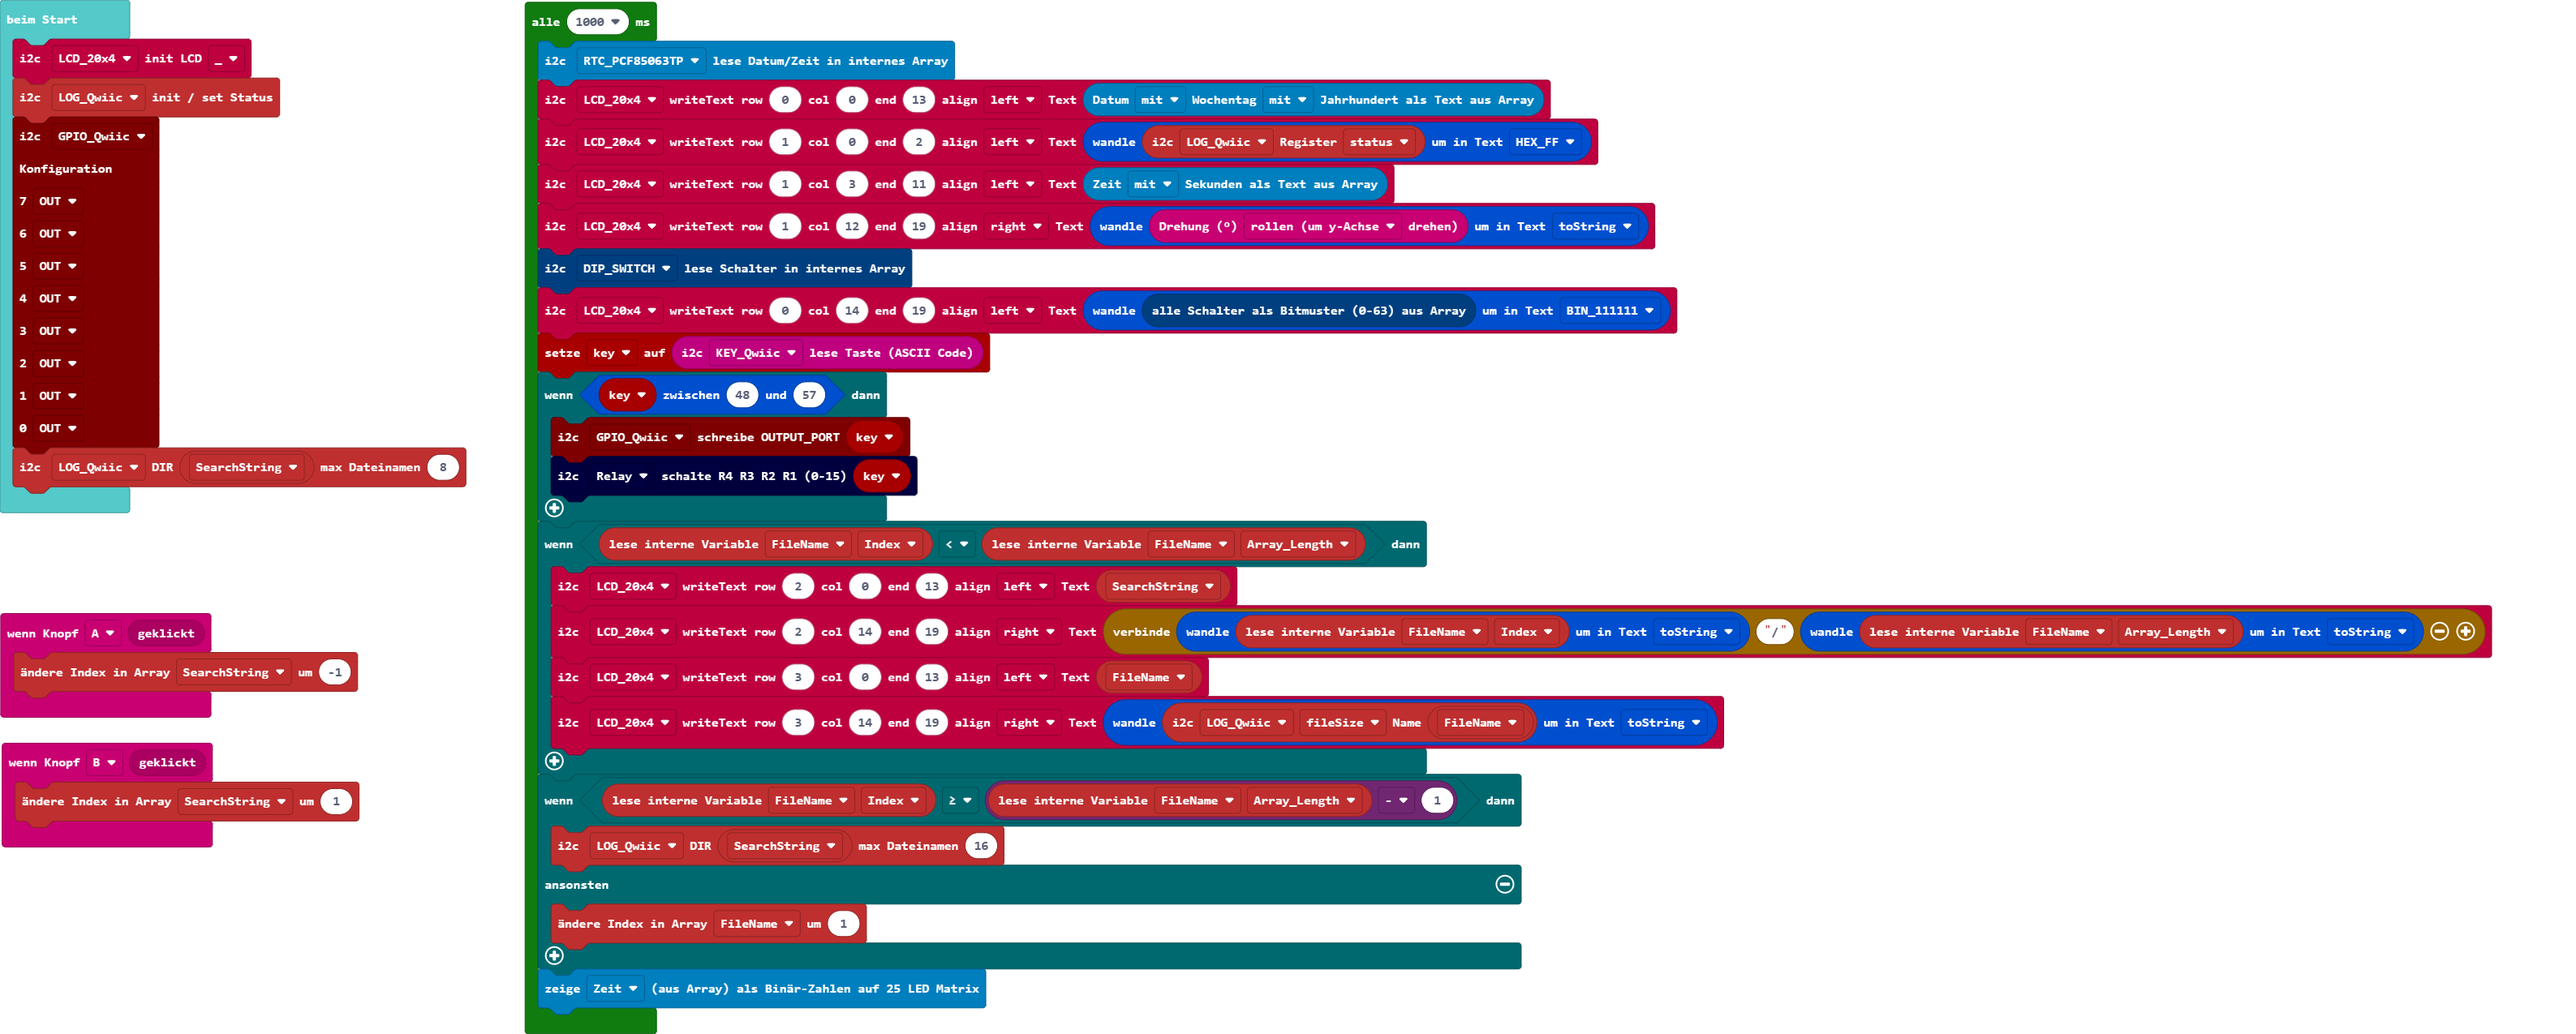
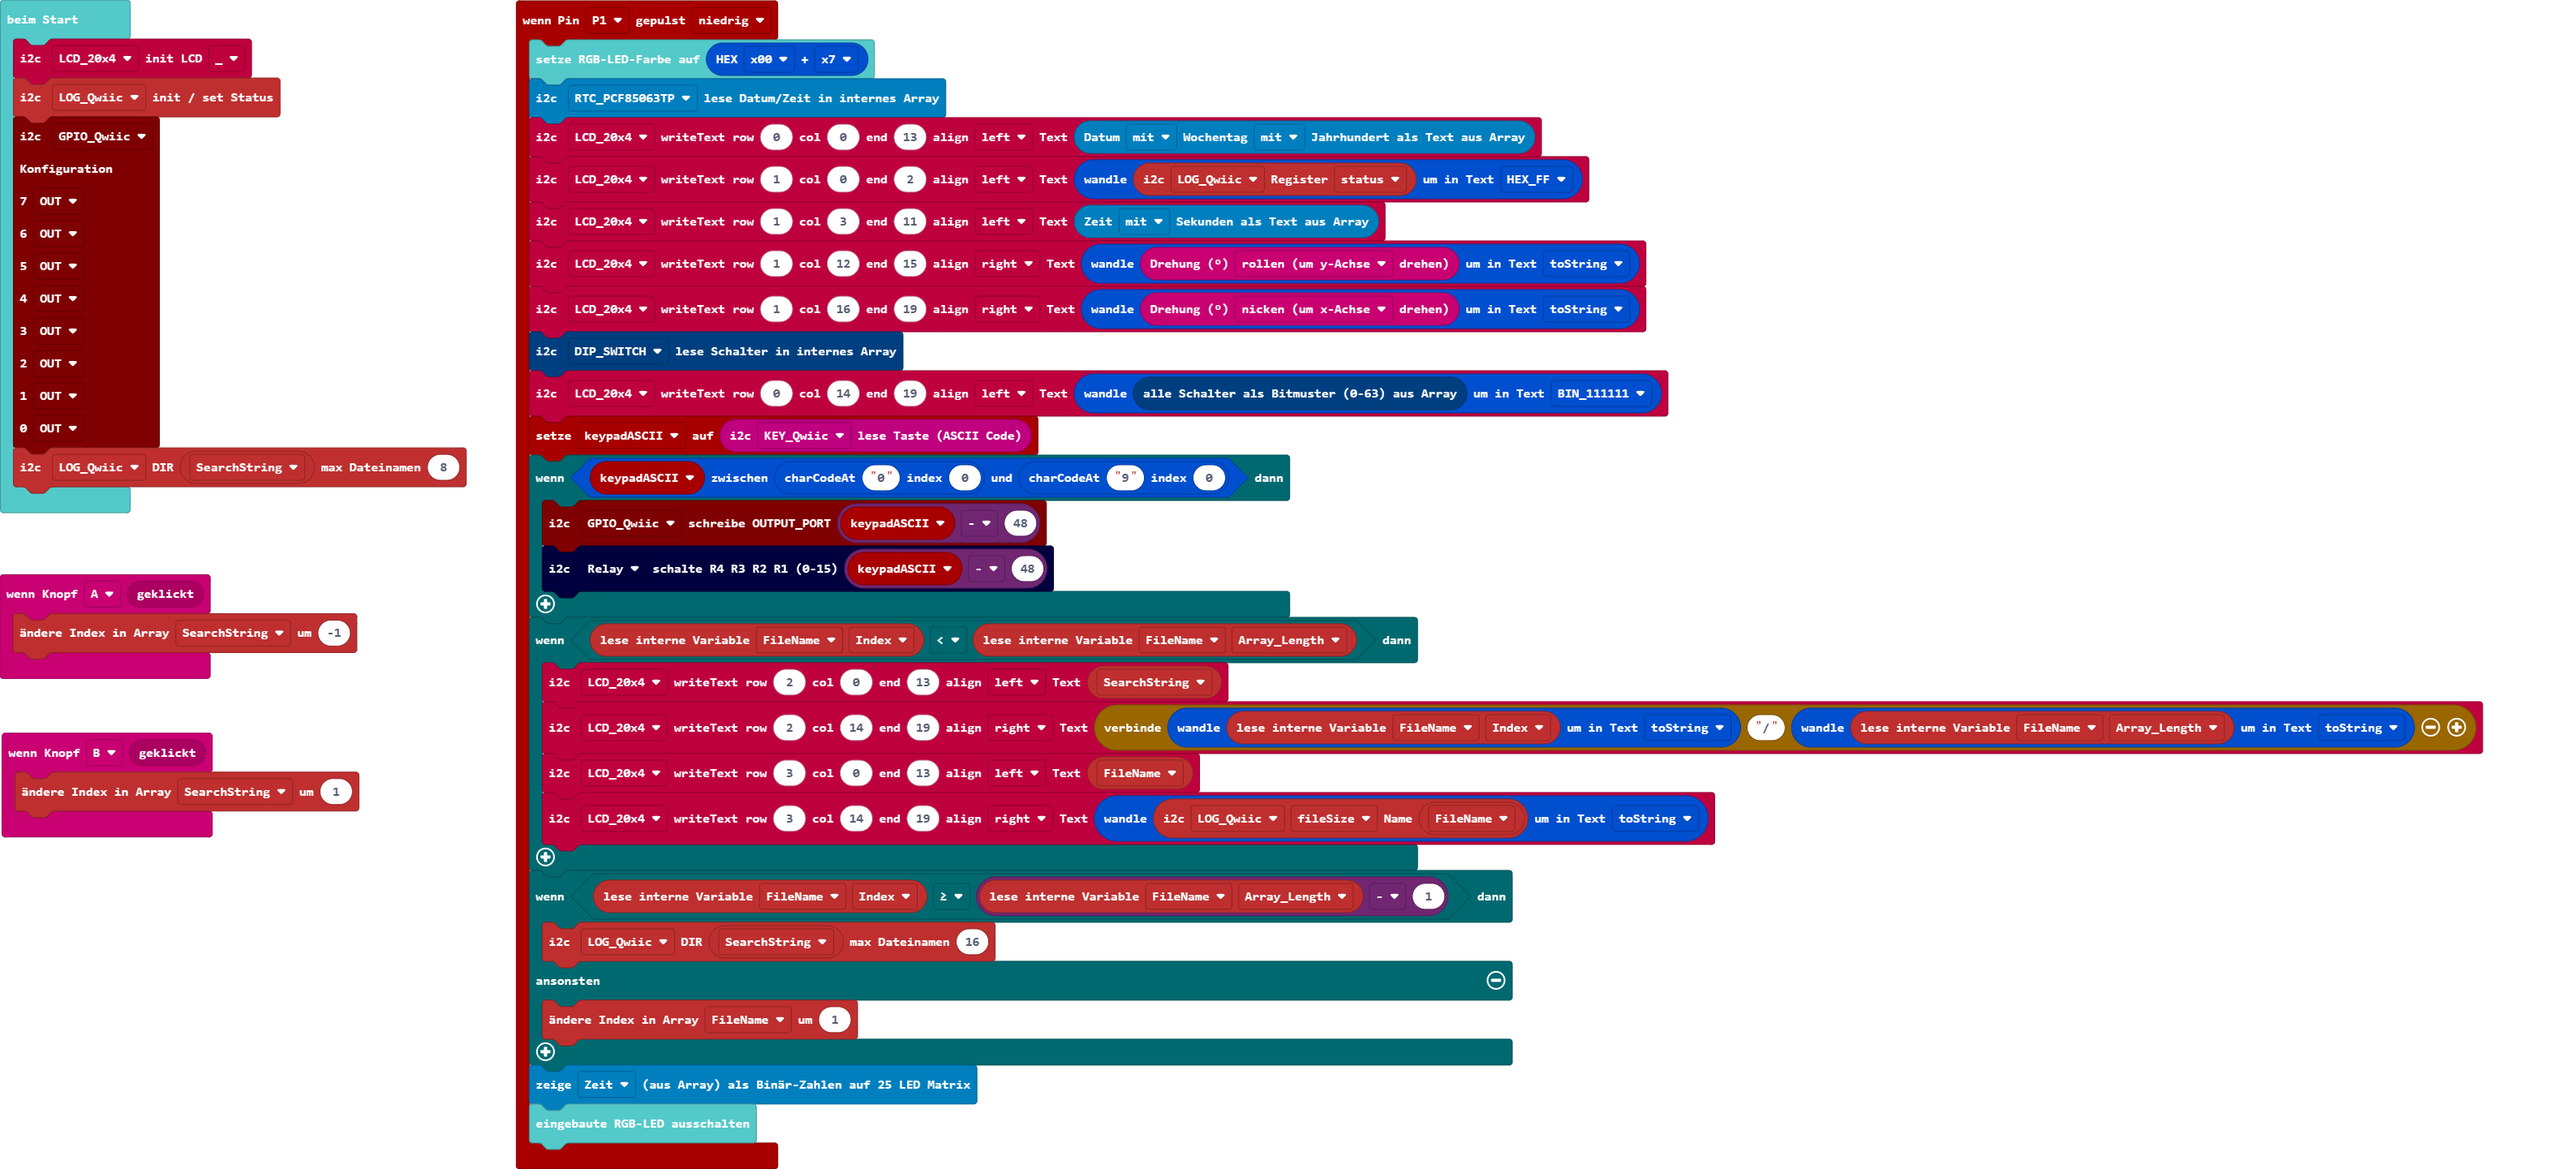
Aktualisiere main.blocks, main.ts

Changed region(s): [[0.0, 0.0, 0.9912, 1.0]]

diff --git a/main.ts b/main.ts
@@ -1,10 +1,39 @@
 input.onButtonEvent(Button.A, input.buttonEventClick(), function () {
     qwiicopenlog.changeIndex(qwiicopenlog.eArray.SearchString, -1)
 })
+pins.onPulsed(DigitalPin.P1, PulseValue.Low, function () {
+    basic.setLedColor(bit.hex(bit.H4.x00, bit.H0.x7))
+    rtcpcf85063tp.readDateTime(rtcpcf85063tp.eADDR.RTC_PCF85063TP)
+    lcd20x4.writeText(lcd20x4.eADDR.LCD_20x4, 0, 0, 13, lcd20x4.eAlign.left, rtcpcf85063tp.getDate(rtcpcf85063tp.ePart.mit, rtcpcf85063tp.ePart.mit))
+    lcd20x4.writeText(lcd20x4.eADDR.LCD_20x4, 1, 0, 2, lcd20x4.eAlign.left, bit.formatNumber(qwiicopenlog.readRegister(qwiicopenlog.eADDR.LOG_Qwiic, qwiicopenlog.eReadRegister.status), bit.eLength.HEX_FF))
+    lcd20x4.writeText(lcd20x4.eADDR.LCD_20x4, 1, 3, 11, lcd20x4.eAlign.left, rtcpcf85063tp.getTime(rtcpcf85063tp.ePart.mit))
+    lcd20x4.writeText(lcd20x4.eADDR.LCD_20x4, 1, 12, 15, lcd20x4.eAlign.right, bit.formatNumber(input.rotation(Rotation.Roll), bit.eLength.toString))
+    lcd20x4.writeText(lcd20x4.eADDR.LCD_20x4, 1, 16, 19, lcd20x4.eAlign.right, bit.formatNumber(input.rotation(Rotation.Pitch), bit.eLength.toString))
+    dipswitch.readSwitch(dipswitch.eADDR.DIP_SWITCH)
+    lcd20x4.writeText(lcd20x4.eADDR.LCD_20x4, 0, 14, 19, lcd20x4.eAlign.left, bit.formatNumber(dipswitch.getBIN(), bit.eLength.BIN_111111))
+    keypadASCII = qwiickeypad.getButton(qwiickeypad.eADDR.KEY_Qwiic)
+    if (bit.between(keypadASCII, bit.charCodeAt("0", 0), bit.charCodeAt("9", 0))) {
+        qwiicgpio.writeOUTPUT_PORT(qwiicgpio.eADDR.GPIO_Qwiic, keypadASCII - 48)
+        spdtrelay.channelCtrl(spdtrelay.eADDR.Relay, keypadASCII - 48)
+    }
+    if (qwiicopenlog.getInt(qwiicopenlog.eArray.FileName, qwiicopenlog.eInt.Index) < qwiicopenlog.getInt(qwiicopenlog.eArray.FileName, qwiicopenlog.eInt.Array_Length)) {
+        lcd20x4.writeText(lcd20x4.eADDR.LCD_20x4, 2, 0, 13, lcd20x4.eAlign.left, qwiicopenlog.getString(qwiicopenlog.eArray.SearchString))
+        lcd20x4.writeText(lcd20x4.eADDR.LCD_20x4, 2, 14, 19, lcd20x4.eAlign.right, "" + bit.formatNumber(qwiicopenlog.getInt(qwiicopenlog.eArray.FileName, qwiicopenlog.eInt.Index), bit.eLength.toString) + "/" + bit.formatNumber(qwiicopenlog.getInt(qwiicopenlog.eArray.FileName, qwiicopenlog.eInt.Array_Length), bit.eLength.toString))
+        lcd20x4.writeText(lcd20x4.eADDR.LCD_20x4, 3, 0, 13, lcd20x4.eAlign.left, qwiicopenlog.getString(qwiicopenlog.eArray.FileName))
+        lcd20x4.writeText(lcd20x4.eADDR.LCD_20x4, 3, 14, 19, lcd20x4.eAlign.right, bit.formatNumber(qwiicopenlog.readInt32BE(qwiicopenlog.eADDR.LOG_Qwiic, qwiicopenlog.eWriteStringReadInt32BE.fileSize, qwiicopenlog.getString(qwiicopenlog.eArray.FileName)), bit.eLength.toString))
+    }
+    if (qwiicopenlog.getInt(qwiicopenlog.eArray.FileName, qwiicopenlog.eInt.Index) >= qwiicopenlog.getInt(qwiicopenlog.eArray.FileName, qwiicopenlog.eInt.Array_Length) - 1) {
+        qwiicopenlog.listDirectory(qwiicopenlog.eADDR.LOG_Qwiic, qwiicopenlog.getString(qwiicopenlog.eArray.SearchString), 16)
+    } else {
+        qwiicopenlog.changeIndex(qwiicopenlog.eArray.FileName, 1)
+    }
+    rtcpcf85063tp.Anzeige25LED(rtcpcf85063tp.e25LED.Zeit)
+    basic.turnRgbLedOff()
+})
 input.onButtonEvent(Button.B, input.buttonEventClick(), function () {
     qwiicopenlog.changeIndex(qwiicopenlog.eArray.SearchString, 1)
 })
-let key = 0
+let keypadASCII = 0
 lcd20x4.initLCD(lcd20x4.eADDR.LCD_20x4, lcd20x4.eINIT._)
 qwiicopenlog.checkStatusRegister(qwiicopenlog.eADDR.LOG_Qwiic)
 qwiicgpio.setMode(
@@ -19,29 +48,3 @@ qwiicgpio.eIO.OUT,
 qwiicgpio.eIO.OUT
 )
 qwiicopenlog.listDirectory(qwiicopenlog.eADDR.LOG_Qwiic, qwiicopenlog.getString(qwiicopenlog.eArray.SearchString), 8)
-loops.everyInterval(1000, function () {
-    rtcpcf85063tp.readDateTime(rtcpcf85063tp.eADDR.RTC_PCF85063TP)
-    lcd20x4.writeText(lcd20x4.eADDR.LCD_20x4, 0, 0, 13, lcd20x4.eAlign.left, rtcpcf85063tp.getDate(rtcpcf85063tp.ePart.mit, rtcpcf85063tp.ePart.mit))
-    lcd20x4.writeText(lcd20x4.eADDR.LCD_20x4, 1, 0, 2, lcd20x4.eAlign.left, bit.formatNumber(qwiicopenlog.readRegister(qwiicopenlog.eADDR.LOG_Qwiic, qwiicopenlog.eReadRegister.status), bit.eLength.HEX_FF))
-    lcd20x4.writeText(lcd20x4.eADDR.LCD_20x4, 1, 3, 11, lcd20x4.eAlign.left, rtcpcf85063tp.getTime(rtcpcf85063tp.ePart.mit))
-    lcd20x4.writeText(lcd20x4.eADDR.LCD_20x4, 1, 12, 19, lcd20x4.eAlign.right, bit.formatNumber(input.rotation(Rotation.Roll), bit.eLength.toString))
-    dipswitch.readSwitch(dipswitch.eADDR.DIP_SWITCH)
-    lcd20x4.writeText(lcd20x4.eADDR.LCD_20x4, 0, 14, 19, lcd20x4.eAlign.left, bit.formatNumber(dipswitch.getBIN(), bit.eLength.BIN_111111))
-    key = qwiickeypad.getButton(qwiickeypad.eADDR.KEY_Qwiic)
-    if (bit.between(key, 48, 57)) {
-        qwiicgpio.writeOUTPUT_PORT(qwiicgpio.eADDR.GPIO_Qwiic, key)
-        spdtrelay.channelCtrl(spdtrelay.eADDR.Relay, key)
-    }
-    if (qwiicopenlog.getInt(qwiicopenlog.eArray.FileName, qwiicopenlog.eInt.Index) < qwiicopenlog.getInt(qwiicopenlog.eArray.FileName, qwiicopenlog.eInt.Array_Length)) {
-        lcd20x4.writeText(lcd20x4.eADDR.LCD_20x4, 2, 0, 13, lcd20x4.eAlign.left, qwiicopenlog.getString(qwiicopenlog.eArray.SearchString))
-        lcd20x4.writeText(lcd20x4.eADDR.LCD_20x4, 2, 14, 19, lcd20x4.eAlign.right, "" + bit.formatNumber(qwiicopenlog.getInt(qwiicopenlog.eArray.FileName, qwiicopenlog.eInt.Index), bit.eLength.toString) + "/" + bit.formatNumber(qwiicopenlog.getInt(qwiicopenlog.eArray.FileName, qwiicopenlog.eInt.Array_Length), bit.eLength.toString))
-        lcd20x4.writeText(lcd20x4.eADDR.LCD_20x4, 3, 0, 13, lcd20x4.eAlign.left, qwiicopenlog.getString(qwiicopenlog.eArray.FileName))
-        lcd20x4.writeText(lcd20x4.eADDR.LCD_20x4, 3, 14, 19, lcd20x4.eAlign.right, bit.formatNumber(qwiicopenlog.readInt32BE(qwiicopenlog.eADDR.LOG_Qwiic, qwiicopenlog.eWriteStringReadInt32BE.fileSize, qwiicopenlog.getString(qwiicopenlog.eArray.FileName)), bit.eLength.toString))
-    }
-    if (qwiicopenlog.getInt(qwiicopenlog.eArray.FileName, qwiicopenlog.eInt.Index) >= qwiicopenlog.getInt(qwiicopenlog.eArray.FileName, qwiicopenlog.eInt.Array_Length) - 1) {
-        qwiicopenlog.listDirectory(qwiicopenlog.eADDR.LOG_Qwiic, qwiicopenlog.getString(qwiicopenlog.eArray.SearchString), 16)
-    } else {
-        qwiicopenlog.changeIndex(qwiicopenlog.eArray.FileName, 1)
-    }
-    rtcpcf85063tp.Anzeige25LED(rtcpcf85063tp.e25LED.Zeit)
-})
